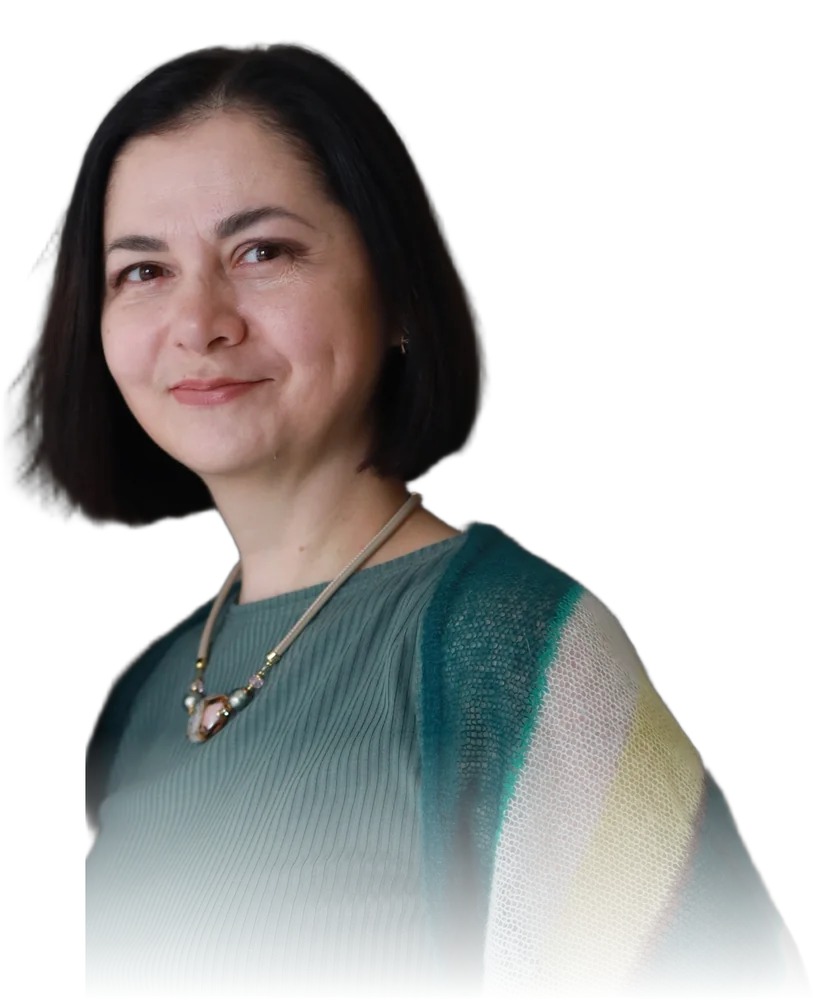
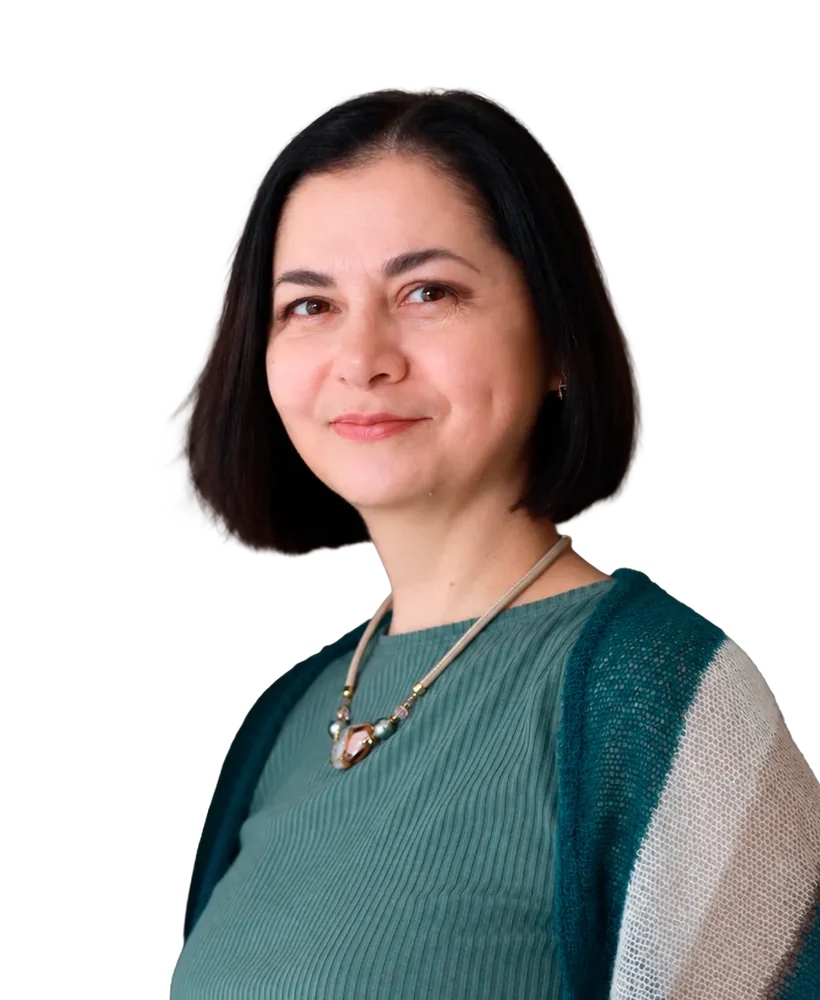
Ведущие: новое фото Виктории Трофимовой — по центру арки, рост как у остальных

diff --git a/README.md b/README.md
@@ -1,5 +1,5 @@
 # Сайт фестиваля «От Страха к Любви»
-*Последняя правка: 29.10.2026 · черновик*
+*Последняя правка: 30.10.2026 · черновик*
 
 > **Для чего этот документ.** Что лежит в папке сайта, откуда берутся тексты, как вносить правки и что ещё не решено.
 
@@ -8,7 +8,7 @@
 |---|---|
 | `index.html` | **Сайт** — одна страница: разметка, стили и скрипт. Правим прямо его |
 | `.source/` | Прежние версии: сайт (первый, тёмный вариант); исходник-фрагмент `page` и скрипт сборки `build.py` (до 27.10 сайт собирался из них); `ИЛЛЮСТРАЦИИ.md` с промптами; `img-ill/` — прежние версии иллюстраций, заменённые на сайте (например, `dawn` до запекания прозрачности) — не актуальны, не удаляем |
-| `img/` | `img/people/` — вырезанные из фона фото ведущих для анфилады (WebP с прозрачностью, 4:5, 800×1000; есть все шесть: Савельева, Елисеева, Виноградова, Власова, Кочурова, Трофимова; Власова и Кочурова — с 29.10, из «06_Спикеры/» «Галина.webp» и «Кочурова.webp», подрезаны до головы ≈ 40% кадра). `kochurova.jpg`, `trofimova.jpg` — прежние квадратные фото, на сайте больше не используются |
+| `img/` | `img/people/` — вырезанные из фона фото ведущих для анфилады (WebP с прозрачностью, 4:5, 800×1000; есть все шесть: Савельева, Елисеева, Виноградова, Власова, Кочурова, Трофимова; Власова и Кочурова — с 29.10, из «06_Спикеры/» «Галина.webp» и «Кочурова.webp», подрезаны до головы ≈ 40% кадра; Трофимова — новое фото с 30.10, «Трофимова.webp», голова по центру кадра). `kochurova.jpg`, `trofimova.jpg` — прежние квадратные фото, на сайте больше не используются |
 | `img/place/` | «Как добраться»: видео пути от двора до двери `route.mp4` и обложка — из проекта сайта аренды (`D:\_AI\__Claude\Site-Arendassets\`). Схема пути встроена в `index.html` (из `route-scheme.svg` того же проекта, перекрашена в тона фестиваля) |
 | `img/ill/` | Иллюстрации — все 14 стоят на сайте (WebP, сжатые из PNG ChatGPT; исходники PNG — «09_Оформление/Сайт/»). Файл `<имя>.webp`, `.jpg` или `.png` подставляется сам; если файла нет — видна заглушка с именем |
 | `ИЛЛЮСТРАЦИИ.md` | Список мест под иллюстрации (14 штук), имена файлов и форматы. Идеи и промпты — в «09_Оформление/Сайт/Иллюстрации для сайта — идеи и промпты.md» |
